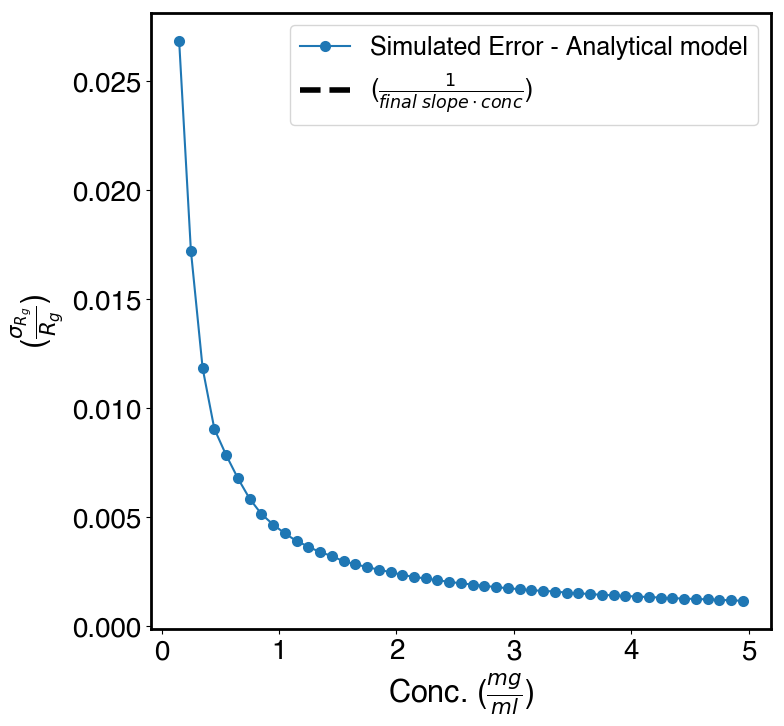
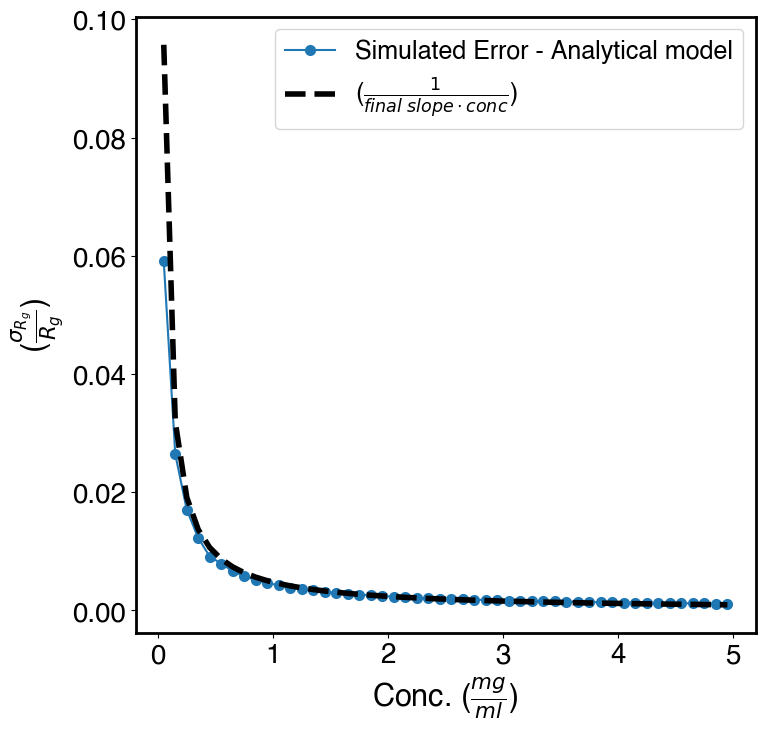
Added functions to calculated the relative error in Rg as a function of contrast for a given protein, buffer, vacuum, and window profiles. Needed to build an I_of_q function with a variable contrast term input.

diff --git a/SAXSProf_ErrCalcs.py b/SAXSProf_ErrCalcs.py
@@ -4,12 +4,13 @@ from matplotlib import pyplot as plt
 class err_Calcs:
 
     def __init__(self, saxs1 = [], I_no_noise = [], I_w_noise = [], I_no_noise_calc = [], c = [], synth_buf = [],
-                 MT_cell = []):
+                 MT_cell = [], Vac_cell = [], win_cell = [], buf_cell = []):
         """
         Description: This initializes the class. It imports several important parameters, particularly from the SAXS() class.
         This class also assumes an object has already been assigned to the SAXS() class. In this case, it is saxs1.
 
         """
+        print('err_Calcs class was called.')
         self.saxs1 = saxs1
         # self.c = c
         self.c = saxs1.c
@@ -25,6 +26,9 @@ class err_Calcs:
 
         self.synth_buf = synth_buf
         self.MT_cell = MT_cell
+        self.Vac_cell = Vac_cell
+        self.win_cell = win_cell
+        self.buf_cell = buf_cell
 
         # calculate synthetic curve on buf_model profile generated by simulate_buf
         I_no_noise = saxs1.I_of_q(self.c, saxs1.mw, saxs1.buf_model_q)
@@ -81,6 +85,74 @@ class err_Calcs:
         print('Default imin/imax values used: 0 and 90')
 
 
+
+    def calc_errRg_contrast(self, imin = [], imax = [], density = [],
+                            pressure = []):
+        """
+        Density must be in g/ml
+        pressure must be in MPa (default 0-350 MPa). Not actually a necessary input.
+        Vectors must be of equal length.
+        """
+        if imin == [] and imax == [] and density == [] and pressure == []:
+            saxs1 = self.saxs1
+            c = self.saxs1.c # use default conc.
+            pp = self.saxs1.pp
+            mw = self.saxs1.mw # default molecular weight
+            t = self.saxs1.t # default exposure time
+            pixel_size = self.saxs1.pixel_size
+            q = self.saxs1.buf_model_q
+            sigma = self.saxs1.sigma
+            density = [0.99707, 1.0015, 1.0184, 1.0379, 1.0719, 1.1010, 1.1142]
+            pressure = [0, 10, 50, 100, 200, 300, 350]
+            ps = []
+            rho = []
+            for i in range(len(density)):
+                ps.append(density[i] * 3.3428E+23)  # conversion factor from g/ml to electrons per cm^3
+
+            for i in range(len(ps)):
+                rho.append((pp - ps[i]) * (2.818 * 10 ** -13))
+            cont = [] # for exporting contrast at the end
+            errRg = []
+            sig2_Rg_out = []
+            if len(ps) == len(rho): # To make sure calculations went well.
+                for i in range(len(ps)):
+                    imin = 0
+                    imax = 90
+                # calculate synthetic curve on buf_model profile generated by simulate_buf
+                    I_no_noise = []
+                    contrast = rho[i]
+                    I_no_noise.append(saxs1.I_of_q_input_rho(c, mw, q, contrast))
+                # calculate noisy profile on mask_q points that fall within both buf's q
+                # calculate noisy profile on mask_q points that fall within both buf's q range and the specified default_q range (mask_q_short)
+                    I_w_noise = []
+                    I = I_no_noise[0]
+                    I_w_noise.append(t * pixel_size ** 2 * saxs1.with_noise(t, q, I))
+                    I_w_noise = I_w_noise[0]
+
+                    log_sigma = []
+                    for i in range(len(sigma)):
+                        log_sigma.append((np.abs(sigma[i]/I_w_noise[i])))
+                    # print('length of log sigma',len(log_sigma))
+
+
+                    (inter, slope, sig2_inter, sig2_slope) = saxs1.lsqfity_with_sigmas(saxs1.buf_model_q[imin:imax] ** 2, np.log(I_w_noise[imin:imax]),
+                                                                               np.array(log_sigma[imin:imax]))
+
+                    Rg = np.sqrt(-3 * slope)
+                    sig_Rg = np.abs(
+                        Rg * np.sqrt(sig2_slope) / (2 * slope))  # converts the sigma^2 for the slope to the sigma of Rg
+
+                # err_Rg = np.sqrt(-3*err_slope)
+                # print c,Rg,sig_Rg/Rg,Rg*saxs1.buf_model_q[imax]
+
+                ## lists to append to each iteration of the loop.
+                    errRg.append(sig_Rg / Rg)
+                    sig2_Rg_out.append(sig_Rg)
+                print('Rg relative error as calculated as a function of contrast (i.e pressure) via the calc_errRg_contrast() function')
+                return rho, errRg, sig2_Rg_out
+            else:
+                print('Something went wrong calculating the contrast term.')
+        print('Default imin/imax values used: 0 and 90')
 
 
     def plot_S1(self, X, Y, plotlabel = '', savelabel = '', xlabel = '', ylabel = ''):

diff --git a/SAXS8.py b/SAXS8.py
@@ -555,6 +555,64 @@ class SAXS:
 
     # RM!
 
+    def I_of_q_input_rho(self, c, mw, q, p):
+        """ Calculate smooth I(q) based on reference:Stuhrmann, H. B. (1980). Small angle x-ray scattering of macromolecules in solution.
+        In Synchrotron Radiation Research (Winick, H., Doniach, S., ed.), pp. 513-531. Plenum Press, New York.
+        """
+        V = self.V
+        R = self.R
+
+        self.name = "%s_%s_%s_%s_%s_%s_%s_%s_%s_%s_%s_%.2g" % (
+        self.detector, c, mw, self.t, self.shape, self.hr, self.qRg, self.salt_type, self.salt_c, self.energy, self.a,
+        self.P)
+
+        """
+        print "lam", self.lam
+        print "energy", self.energy
+        print "det_eff", self.det_eff
+        print "I_I0_ratio", self.I_I0_ratio
+        print "P",self.P
+        print "a",self.a
+        print "v",self.v
+        print "p",self.p
+        print "mw",self.mw
+        print 'd',self.d
+        print 'c',c
+        print "t",self.t
+        print 'FF(q=0)',self.FF(0.0)
+        """
+        # convert c from mg/ml to g/cm**3, MW from kDa to g, (note: 1000's cancel), P is photons/s entering the sample.
+        #
+        # print "solid angle correction range: ", np.max(self.SolidAngCor(q)), np.min(self.SolidAngCor(q))
+
+        self.mu_win = self.mu_factor * self.lam ** 2.9  # energy dependence of window absorption
+        # print "mu_win = ", self.mu_win
+
+        self.mu = 2.8 * self.lam ** 3  # energy dependence of water absorption
+
+        I0abs = (self.v * p) ** 2 * self.mw * c / (6.022e23)
+        PreFac = exp(-self.mu_win * self.d_win) * self.det_eff * exp(-self.mu * self.d) * self.P / (
+                    self.a ** 2) * self.d
+        I0 = PreFac * I0abs
+
+        # print "I(0) = ", I0*self.t*(self.pixel_size)**2, "(photons/pixel)"
+        # print "I(0) = ", I0abs, " (cm-1)"
+        # Full Prefactor converts cm-1 to photons/pixel
+        # print "Full Prefactor = ", PreFac*self.t*(self.pixel_size)**2
+        # print "window transmission: ",exp(-self.mu_win*self.d_win)
+        # print "water  transmission: ",exp(-self.mu*self.d)
+
+        I = I0 * self.FF(q)
+
+        self.I0_model = I0
+        self.I0_model_abs = I0abs
+
+        # Return I: photons per cm**2 per unit time
+        # multiply by pixel area (cm**2) and by exposure time to get actual measured intensity (average photons per pixel at each sampled q bin.
+        # This formula assumes a delta-function beam profile. Finite beam profile should be implemented someday, but won't make much difference in counts.
+
+        return I
+
     def I_of_q_variable_contrast(self, c, mw, q, p):
         """ Calculate smooth I(q) based on reference:Stuhrmann, H. B. (1980). Small angle x-ray scattering of macromolecules in solution.
         In Synchrotron Radiation Research (Winick, H., Doniach, S., ed.), pp. 513-531. Plenum Press, New York.
@@ -569,7 +627,7 @@ class SAXS:
         self.name = "%s_%s_%s_%s_%s_%s_%s_%s_%s_%s_%s_%.2g" % (
         self.detector, c, mw, self.t, self.shape, self.hr, self.qRg, self.salt_type, self.salt_c, self.energy, self.a,
         self.P)
-        self.p = p
+        # self.p = p
         """
         print "lam", self.lam
         print "energy", self.energy
@@ -597,8 +655,8 @@ class SAXS:
         # RM! Generate series of I0abs values for every contrast value.
 
         I0abs = []
-        for i in range(0, len(self.p)):
-            I0abs.append((self.v * self.p[i]) ** 2 * self.mw * c / (6.022e23))
+        for i in range(0, len(p)):
+            I0abs.append((self.v * p[i]) ** 2 * self.mw * c / (6.022e23))
 
         # I0abs = (self.v * self.p) ** 2 * self.mw * c / (6.022e23)
         # PreFac = exp(-self.mu_win * self.d_win) * self.det_eff * exp(-self.mu * self.d) * self.P / (

diff --git a/SAXSProf.py b/SAXSProf.py
@@ -147,9 +147,10 @@ saxs1.load_I(sample_model_1,interpolate=True,q_array = saxs1.default_q)
 err_data = err_Calcs(saxs1 = saxs1)
 conc, rgError, log_sig = err_data.calc_errRg_conc()
 
-# err_data.plot_S1(conc, [x * 100 for x in rgError],
-#                  plotlabel = 'Simulated Error - Analytical model', savelabel = 'Simulated_Error_Func_Conc',
-#                  xlabel = 'Conc. ($\\frac{mg}{ml}$)', ylabel = '($\\frac{\sigma_{R_{g}}}{R_{g}}$) $\cdot 100$')
+
+err_data.plot_S1(conc, [x * 100 for x in rgError],
+                 plotlabel = 'Simulated Error - Analytical model', savelabel = 'Simulated_Error_Func_Conc',
+                 xlabel = 'Conc. ($\\frac{mg}{ml}$)', ylabel = '($\\frac{\sigma_{R_{g}}}{R_{g}}$) $\cdot 100$')
 
 
 # Quick calculate model from initial points (slope) of the simulated data
@@ -158,14 +159,14 @@ final_slope = (inv_err[1]-inv_err[0])/(conc[1]-conc[0])
 
 # Technically this final_slope term should be empirically model as it may not be known apriori
 
-# err_data.plot_S1(conc, 1.0/(final_slope*np.array(conc)),
-#                  plotlabel= '($\\frac{1}{conc}$) Model', savelabel = 'Inv_c_Model',
-#                  xlabel = 'Conc. ($\\frac{mg}{ml}$)', ylabel = 'Model')
-#
-# err_data.plot_S2(conc, rgError, 1.0/(final_slope*np.array(conc)),
-#                  plotlabel1 = 'Simulated Error - Analytical model', plotlabel2 = '($\\frac{1}{final \ slope \cdot conc}$)',
-#                  savelabel = 'Analytical_and_Inv_c_Rg_ErrorModel',
-#                  xlabel = 'Conc. ($\\frac{mg}{ml}$)', ylabel = '($\\frac{\sigma_{R_{g}}}{R_{g}}$)')
+err_data.plot_S1(conc, 1.0/(final_slope*np.array(conc)),
+                 plotlabel= '($\\frac{1}{conc}$) Model', savelabel = 'Inv_c_Model',
+                 xlabel = 'Conc. ($\\frac{mg}{ml}$)', ylabel = 'Model')
+
+err_data.plot_S2(conc, rgError, 1.0/(final_slope*np.array(conc)),
+                 plotlabel1 = 'Simulated Error - Analytical model', plotlabel2 = '($\\frac{1}{final \ slope \cdot conc}$)',
+                 savelabel = 'Analytical_and_Inv_c_Rg_ErrorModel',
+                 xlabel = 'Conc. ($\\frac{mg}{ml}$)', ylabel = '($\\frac{\sigma_{R_{g}}}{R_{g}}$)')
 
 # RM! 04.28.2020
 # Contrast values taken from RM script.
@@ -186,6 +187,13 @@ err_data.plot_S2(saxs1.buf_model_q, I[0], I[6], plotlabel1= '0 MPa',
                  plotlabel2='350 MPa',
                  savelabel='Scattering_Curve_AtMultiplePressures',
                  xlabel='q($\\AA^{-1}$)', ylabel='I(q)')
+
+
+rho, Rg_error_contrast, sig2_Rg_out = err_data.calc_errRg_contrast()
+
+err_data.plot_S1(rho, Rg_error_contrast,
+                 plotlabel= 'Simulated Error', savelabel = 'Sim_err_Rg_func_of_Contrast',
+                 xlabel = '$\Delta \\rho (UNITS)$', ylabel = '($\\frac{\sigma_{R_{g}}}{R_{g}}$)')
 
 ######################################################
 
